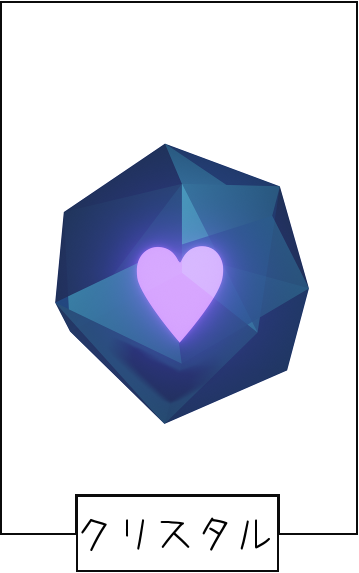
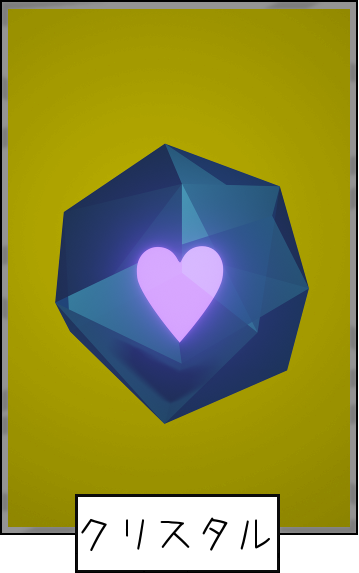
アイテム画像差し替え、キズナプラスアイテム&スキル追加、アイテムスキル効果処理タイミングタオ対応

diff --git a/app/src/main/cpp/Game/App/Param/AppSkillList.cpp b/app/src/main/cpp/Game/App/Param/AppSkillList.cpp
@@ -32,22 +32,23 @@ void AppSkillList::Load()
 	std::vector<std::string>	aSplitText;
 	Util::SplitCSVText(aSplitText, str);
 
-	const int nParamNum = 5;
-	m_aSkillInfo.resize(aSplitText.size() / nParamNum);
+	const int nParamNum = 6;
+	assert(aSplitText.size() / nParamNum < eSkillList_Max);
 	for(int i = 0; i < aSplitText.size(); ++i){
 		const int nIdx = i / nParamNum;
 		const int nParamNo = i % nParamNum;
 		auto& info = m_aSkillInfo[nIdx];
 		if(nParamNo == 0){ info.name = aSplitText[i]; }
-		else if(nParamNo == 1){ info.Type = aSplitText[i].c_str(); }
-		else if(nParamNo == 2){ info.Duration = atoi(aSplitText[i].c_str()); }
-		else if(nParamNo == 3){ info.minParam = atoi(aSplitText[i].c_str()); }
-		else if(nParamNo == 4){ info.maxParam = atoi(aSplitText[i].c_str()); }
+		else if(nParamNo == 1){ info.Type = aSplitText[i]; }
+		else if(nParamNo == 2){ info.Timing = aSplitText[i]; }
+		else if(nParamNo == 3){ info.Duration = atoi(aSplitText[i].c_str()); }
+		else if(nParamNo == 4){ info.minParam = atoi(aSplitText[i].c_str()); }
+		else if(nParamNo == 5){ info.maxParam = atoi(aSplitText[i].c_str()); }
 	}
 	for(int i = 0; i < m_aSkillInfo.size(); ++i) {
 		auto& it = m_aSkillInfo[i];
-		DEBUG_LOG_A("SkillNo[%d]：[%s][%s][%d][%d][%d]\n",
-				i + 1, it.name.c_str(), it.Type.c_str(), it.Duration, it.minParam, it.maxParam);
+		DEBUG_LOG_A("SkillNo[%d]：[%s][%s][%s][%d][%d][%d]\n",
+				i + 1, it.name.c_str(), it.Type.c_str(), it.Timing.c_str(), it.Duration, it.minParam, it.maxParam);
 	}
 }
 
@@ -71,14 +72,7 @@ void AppSkillList::InitializeSkillTransfer()
 		netSkillInfo.TargetPlayer = data->TargetPlayer;
 		netSkillInfo.Param = data->Param;
 
-		UpdateSkillInfo info ={};
-		info.Type = skill.Type;
-		info.nSendPlayer = data->SendPlayer;
-		info.nTargetPlayer = data->TargetPlayer;
-		info.Duration = data->Duration;
-		info.nParam = data->Param;
-
-		UpdateSkill(info);
+		AppParam::Get()->SetUseSkillInfo(data->SkillNo, skill.Duration, data->Param, data->SendPlayer, data->TargetPlayer);
 	});
 	p->SetDumpCallBack([](){ AppParam::Get()->DumpNetworkSkillInfo(); });
 }
@@ -103,22 +97,23 @@ void AppSkillList::BeginItemSkill(int nPlayer, int nSkillNo)
 {
 	const auto skill = m_aSkillInfo[nSkillNo];
 	auto pManager = TransferManager::Get();
-	UpdateSkillInfo info ={};
-	info.Type = skill.Type;
-	info.nSendPlayer = nPlayer;
-	info.nTargetPlayer = -1;
+
+	int nTargetPlayer = -1;
+	const int nParam = getSkillParam(nSkillNo, nPlayer);
 	if(pManager->IsConnectSucess()) {
 		const int nNum = pManager->GetConnectNum();
 		do {
-			info.nTargetPlayer = Random::GetInt(0, nNum);
-		} while(info.nTargetPlayer == info.nSendPlayer);
+			nTargetPlayer = Random::GetInt(0, nNum);
+		} while(nTargetPlayer == nPlayer);
+
+		if(pManager->GetSelfConnect().nPlayerId == nPlayer){
+			AppParam::Get()->SetUseSkillInfo(nSkillNo, skill.Duration, nParam, nPlayer, nTargetPlayer);
+		}
+		sendNetSkillInfo(nSkillNo, skill.Duration, nParam, nPlayer, nTargetPlayer);
 	}
-	info.Duration = skill.Duration;
-	info.nParam = Random::GetInt(skill.minParam, skill.maxParam);
-	if(pManager->GetSelfConnect().nPlayerId == nPlayer){
-		UpdateSkill(info);
+	else{
+		AppParam::Get()->SetUseSkillInfo(nSkillNo, skill.Duration, nParam, nPlayer, nTargetPlayer);
 	}
-	sendNetSkillInfo(nSkillNo, info);
 }
 bool AppSkillList::IsEndItemSkill() const
 {
@@ -129,15 +124,26 @@ bool AppSkillList::IsEndItemSkill() const
 	return p->IsEnd();
 }
 
-void AppSkillList::UpdateSkill(const UpdateSkillInfo& info)
+void AppSkillList::UpdateSkill(int nPlayer, SkillTiming timing)
 {
-	if(info.Type == "キズナ奪い") {
-		AppParam::Get()->AddKizunaPoint(info.nSendPlayer, info.nParam);
-		AppParam::Get()->SubKizunaPoint(info.nTargetPlayer, info.nParam);
+	auto pUseSkill = AppParam::Get()->GetUseSkillInfo(nPlayer);
+	for(int i = 0; i < eSkillList_Max; ++i) {
+		const auto& skill = m_aSkillInfo[i];
+		if(!pUseSkill[i].bEnable){ continue; }
+		if(getSkillTiming(skill.Timing.c_str()) != timing){ continue; }
+
+		DEBUG_LOG_A("スキル更新[%s]\n", skill.Type.c_str());
+		if (skill.Type == "キズナプラス") {
+			AppParam::Get()->AddKizunaPoint(pUseSkill[i].SendPlayer, pUseSkill[i].Param);
+		} else if (skill.Type == "キズナ奪い") {
+			AppParam::Get()->AddKizunaPoint(pUseSkill[i].SendPlayer, pUseSkill[i].Param);
+			AppParam::Get()->SubKizunaPoint(pUseSkill[i].TargetPlayer, pUseSkill[i].Param);
+		}
+		AppParam::Get()->UpdateSkillDuration(i, nPlayer);
 	}
 }
 
-void AppSkillList::sendNetSkillInfo(int nSkillNo, const UpdateSkillInfo& info)
+void AppSkillList::sendNetSkillInfo(int nSkillNo, int nDuration, int nParam, int nSendPlayer, int nTargetPlayer)
 {
 	auto pManager = TransferManager::Get();
 	if(!pManager->IsConnectSucess()){ return; }
@@ -145,12 +151,40 @@ void AppSkillList::sendNetSkillInfo(int nSkillNo, const UpdateSkillInfo& info)
 	auto& netSkillInfo = AppParam::Get()->GetSkillInfo();
 	netSkillInfo.Standby = true;
 	netSkillInfo.SkillNo = nSkillNo;
-	netSkillInfo.Duration = info.Duration;
-	netSkillInfo.SendPlayer = info.nSendPlayer;
-	netSkillInfo.TargetPlayer = info.nTargetPlayer;
-	netSkillInfo.Param = info.nParam;
+	netSkillInfo.Duration = nDuration;
+	netSkillInfo.SendPlayer = nSendPlayer;
+	netSkillInfo.TargetPlayer = nTargetPlayer;
+	netSkillInfo.Param = nParam;
 
 	auto p = pManager->GetTransfer<TransferSkillInfo>(TransferManager::eTransferKind_SkillInfo);
-	p->SetSkillInfoData(&netSkillInfo, sizeof(AppParam::SkillNetworkInfo), info.nSendPlayer);
+	p->SetSkillInfoData(&netSkillInfo, sizeof(AppParam::SkillNetworkInfo), nSendPlayer);
 	pManager->StartTransfer(TransferManager::eTransferKind_SkillInfo);
+}
+
+int AppSkillList::getSkillParam(int nSkillNo, int nPlayer) const
+{
+	const auto skill = m_aSkillInfo[nSkillNo];
+	int nParam = Random::GetInt(skill.minParam, skill.maxParam);
+
+	// 特定のスキルは効果が重複する
+	if(skill.Type == "キズナプラス") {
+		nParam += AppParam::Get()->GetUseSkillInfo(nPlayer)[nSkillNo].Param;
+	}
+	return nParam;
+}
+
+int AppSkillList::getSkillTiming(const char* str) const
+{
+	if(std::strcmp(str, "なし") == 0) {
+		return eSKillTiming_None;
+	}
+	else if(std::strcmp(str, "直後") == 0){
+		return eSkillTiming_Now;
+	}
+	else if(std::strcmp(str, "自分のターン開始") == 0) {
+		return eSkillTiming_SelfTurn;
+	}
+	DEBUG_LOG("スキルタイミング不正\n");
+	abort();
+	return eSKillTiming_None;
 }

diff --git a/app/src/main/cpp/Game/App/Param/AppParam.cpp b/app/src/main/cpp/Game/App/Param/AppParam.cpp
@@ -158,6 +158,83 @@ bool AppParam::IsClear() const {
 	return m_NetworkGameInfo.bClear;
 }
 
+void AppParam::SetUseSkillInfo(int nNo, int nDuration, int nParam, int nSendPlayer, int nTargetPlayer)
+{
+	assert(nNo >= 0 && nNo < AppSkillList::eSkillList_Max);
+
+	// 接続完了している時は通信用情報を更新
+	auto pManager = TransferManager::Get();
+	if(pManager->IsConnectSucess()) {
+		auto &skillInfo = m_NetworkGameInfo.CharaInfo[nSendPlayer].useSkill[nNo];
+		skillInfo.bEnable = true;
+		skillInfo.Duration = nDuration;
+		skillInfo.Param = nParam;
+		skillInfo.SendPlayer = nSendPlayer;
+		skillInfo.TargetPlayer = nTargetPlayer;
+
+		// プレイヤーIDが自身のIDなら自分用も更新
+		const int nNetPlayerId = pManager->GetPlayerIdFromNetId(pManager->GetSelfConnect().Id.c_str());
+		if(nNetPlayerId == nSendPlayer){
+			m_CharaInfo.useSkill[nNo] = skillInfo;
+		}
+	}
+	// 接続できていない時はプレイヤーIDが０の時だけ更新
+	else if(nSendPlayer == 0){
+		auto &skillInfo = m_CharaInfo.useSkill[nNo];
+		skillInfo.bEnable = true;
+		skillInfo.Duration = nDuration;
+		skillInfo.Param = nParam;
+		skillInfo.SendPlayer = nSendPlayer;
+		skillInfo.TargetPlayer = nTargetPlayer;
+	}
+}
+
+const AppParam::UseSkillInfo* AppParam::GetUseSkillInfo(int nPlayerId) const
+{
+	// 接続完了している時は通信用情報から取得
+	auto pManager = TransferManager::Get();
+	if(pManager->IsConnectSucess()) {
+		return m_NetworkGameInfo.CharaInfo[nPlayerId].useSkill;
+	}
+	// 接続できていない時は自身の情報から取得
+	return m_CharaInfo.useSkill;
+}
+
+void AppParam::UpdateSkillDuration(int nNo, int nPlayerId)
+{
+	// 接続完了している時は通信用情報を更新
+	auto pManager = TransferManager::Get();
+	if(pManager->IsConnectSucess()) {
+		auto& skillInfo = m_NetworkGameInfo.CharaInfo[nPlayerId].useSkill[nNo];
+		if(skillInfo.Duration < 0){ return; }	// 無限継続
+		skillInfo.Duration--;
+		if(skillInfo.Duration == 0){ skillInfo.bEnable = false; }
+
+		// プレイヤーIDが自身のIDなら自分用も更新
+		const int nNetPlayerId = pManager->GetPlayerIdFromNetId(pManager->GetSelfConnect().Id.c_str());
+		if(nNetPlayerId == nPlayerId){
+			m_CharaInfo.useSkill[nNo] = skillInfo;
+		}
+	}
+	// 接続できていない時はプレイヤーIDが０の時だけ更新
+	else if(nPlayerId == 0) {
+		auto& skillInfo = m_CharaInfo.useSkill[nNo];
+		if (skillInfo.Duration < 0) { return; }    // 無限継続
+		skillInfo.Duration--;
+		if (skillInfo.Duration == 0) { skillInfo.bEnable = false; }
+	}
+}
+
+void AppParam::DumpUseSkillInfo(int nPlayerId)
+{
+	auto pUseSkill = GetUseSkillInfo(nPlayerId);
+	for(int i = 0; i < AppSkillList::eSkillList_Max; ++i){
+		auto& skill = AppSkillList::Get()->GetSkillInfo(i);
+		DEBUG_LOG_A("[%d][%s]:[%d][%d][%d][%d][%d]\n",
+				i + 1, skill.name.c_str(), pUseSkill[i].bEnable, pUseSkill[i].Duration, pUseSkill[i].Param, pUseSkill[i].SendPlayer, pUseSkill[i].TargetPlayer);
+	}
+}
+
 AppParam::GameNetworkInfo& AppParam::GetNetworkInfo()
 {
 	return m_NetworkGameInfo;
@@ -185,3 +262,4 @@ void AppParam::DumpNetworkSkillInfo()
 	DEBUG_LOG_A("Duration[%d]\n", m_NetworkSkillInfo.Duration);
 	DEBUG_LOG_A("Param[%d]\n", m_NetworkSkillInfo.Param);
 }
+

diff --git a/app/src/main/cpp/Game/App/Param/AppParam.h b/app/src/main/cpp/Game/App/Param/AppParam.h
@@ -8,6 +8,7 @@
 
 #include "../Engine/Engine.h"
 #include <Singleton.h>
+#include <AppSkillList.h>
 
 class AppParam : public Singleton<AppParam>
 {
@@ -17,6 +18,14 @@ public:
 		eItemKind_Max = 10
 	};
 
+	struct UseSkillInfo {
+		bool bEnable;
+		int Duration;
+		int Param;
+		int SendPlayer;
+		int TargetPlayer;
+	};
+
 	struct GameNetworkInfo {
 		bool bClear;
 		int8_t  nCurrentPlayerId;
@@ -24,6 +33,7 @@ public:
 		struct CharaInfo {
 			int 	nKizunaPoint;
 			uint8_t uItemNum[eItemKind_Max];
+			UseSkillInfo useSkill[AppSkillList::eSkillList_Max];
 		};
 		CharaInfo	CharaInfo[NET_CONNECT_MAX];
 	};
@@ -32,6 +42,7 @@ public:
 		char cCharaName[32];
 		int 	nKizunaPoint;
 		uint8_t uItemNum[eItemKind_Max];
+		UseSkillInfo useSkill[AppSkillList::eSkillList_Max];
 	};
 
 	struct SkillNetworkInfo {
@@ -59,12 +70,16 @@ public:
 	void SetClear(bool bClear);
 	bool IsClear() const;
 
+	void SetUseSkillInfo(int nNo, int nDuration, int nParam, int nSendPlayer, int nTargetPlayer);
+	const UseSkillInfo* GetUseSkillInfo(int nPlayerId) const;
+	void UpdateSkillDuration(int nNo, int nPlayerId);
+	void DumpUseSkillInfo(int nPlayerId);
+
 	GameNetworkInfo& GetNetworkInfo();
 	void DumpNetworkInfo();
 
 	SkillNetworkInfo& GetSkillInfo();
 	void DumpNetworkSkillInfo();
-
 private:
 	CharacterInfo 		m_CharaInfo;
 	GameNetworkInfo		m_NetworkGameInfo;

diff --git a/app/src/main/cpp/Game/App/Param/AppSkillList.h b/app/src/main/cpp/Game/App/Param/AppSkillList.h
@@ -8,7 +8,7 @@
 
 #include "../Engine/Engine.h"
 #include <Singleton.h>
-#include <vector>
+#include <array>
 
 class AppSkillList : public Singleton<AppSkillList>
 {
@@ -18,20 +18,19 @@ public:
 		eSkillList_Max = 10
 	};
 
+	enum SkillTiming{
+		eSKillTiming_None,
+		eSkillTiming_Now,
+		eSkillTiming_SelfTurn,
+	};
+
 	struct SkillInfo {
 		std::string name;
 		std::string Type;
+		std::string Timing;
 		int Duration;
 		int minParam;
 		int maxParam;
-	};
-
-	struct UpdateSkillInfo{
-		std::string Type;
-		int nSendPlayer;
-		int nTargetPlayer;
-		int Duration;
-		int nParam;
 	};
 
 public:
@@ -45,13 +44,16 @@ public:
 	void BeginItemSkill(int nPlayer, int nSkillNo);
 	bool IsEndItemSkill() const;
 
-	void UpdateSkill(const UpdateSkillInfo& info);
+	void UpdateSkill(int nPlayer, SkillTiming timing);
 
 private:
-	void sendNetSkillInfo(int nSkillNo, const UpdateSkillInfo& info);
+	void sendNetSkillInfo(int nSkillNo, int nDuration, int nParam, int nSendPlayer, int nTargetPlayer);
+
+	int getSkillParam(int nSkillNo, int nPlayer) const;
+	int getSkillTiming(const char* str) const;
 
 private:
-	std::vector<SkillInfo>	m_aSkillInfo;
+	std::array<SkillInfo, eSkillList_Max>	m_aSkillInfo;
 };
 
 #define SKILL_LIST() AppSkillList::Get()

diff --git a/app/src/main/cpp/Game/App/Entity/UseItem.cpp b/app/src/main/cpp/Game/App/Entity/UseItem.cpp
@@ -177,6 +177,7 @@ void UseItem::GameEntityUpdate(const void* param)
 		if(bUsePossible) {
 			AppParam::Get()->SubItem(nPlayer, nSelectItemNo, 1);
 		}
+		// スキル使用設定
 		const char* pSkillName = AppItemList::Get()->GetItemInfo(nSelectItemNo).skillName.c_str();
 		const int nSkillNo = SKILL_LIST()->GetSkillNoFromSkillName(pSkillName);
 		SKILL_LIST()->BeginItemSkill(nPlayer, nSkillNo);
@@ -189,6 +190,9 @@ void UseItem::GameEntityUpdate(const void* param)
 				pManager->GetTransfer<TransferSkillInfo>(
 						TransferManager::eTransferKind_SkillInfo)->Dump();
 			}
+			const int nPlayer = AppParam::Get()->GetNetworkInfo().nCurrentPlayerId;
+			// スキル使用更新
+			SKILL_LIST()->UpdateSkill(nPlayer, AppSkillList::eSkillTiming_Now);
 			m_nStep = eStep_Reset;
 		}
 	}

diff --git a/app/src/main/cpp/Game/App/Scene/SceneGameMain.cpp b/app/src/main/cpp/Game/App/Scene/SceneGameMain.cpp
@@ -45,6 +45,8 @@ namespace {
 				auto p = reinterpret_cast<SceneGameMain *>(pUserPtr);
 				p->m_pPlayerNotice->SetVisible(true);
 				p->m_pPlayerNotice->Open(true, 1.0f);
+				// スキル更新
+				SKILL_LIST()->UpdateSkill(AppParam::Get()->GetNetworkInfo().nCurrentPlayerId, AppSkillList::eSkillTiming_SelfTurn);
 			}
 		}
 	};

diff --git a/app/src/main/cpp/Game/Net/TransferGameInfo.cpp b/app/src/main/cpp/Game/Net/TransferGameInfo.cpp
@@ -33,7 +33,7 @@ bool TransferGameInfo::updateTransfer()
 {
 	const auto pManager = TransferManager::Get();
 	if(pManager->IsHost()) {
-		jbyte data[512];
+		jbyte data[1024];
 		assert(m_nSize + 2 < sizeof(data));
 		data[0] = m_Data.uKind;
 		data[1] = m_Data.bReqEnd;
